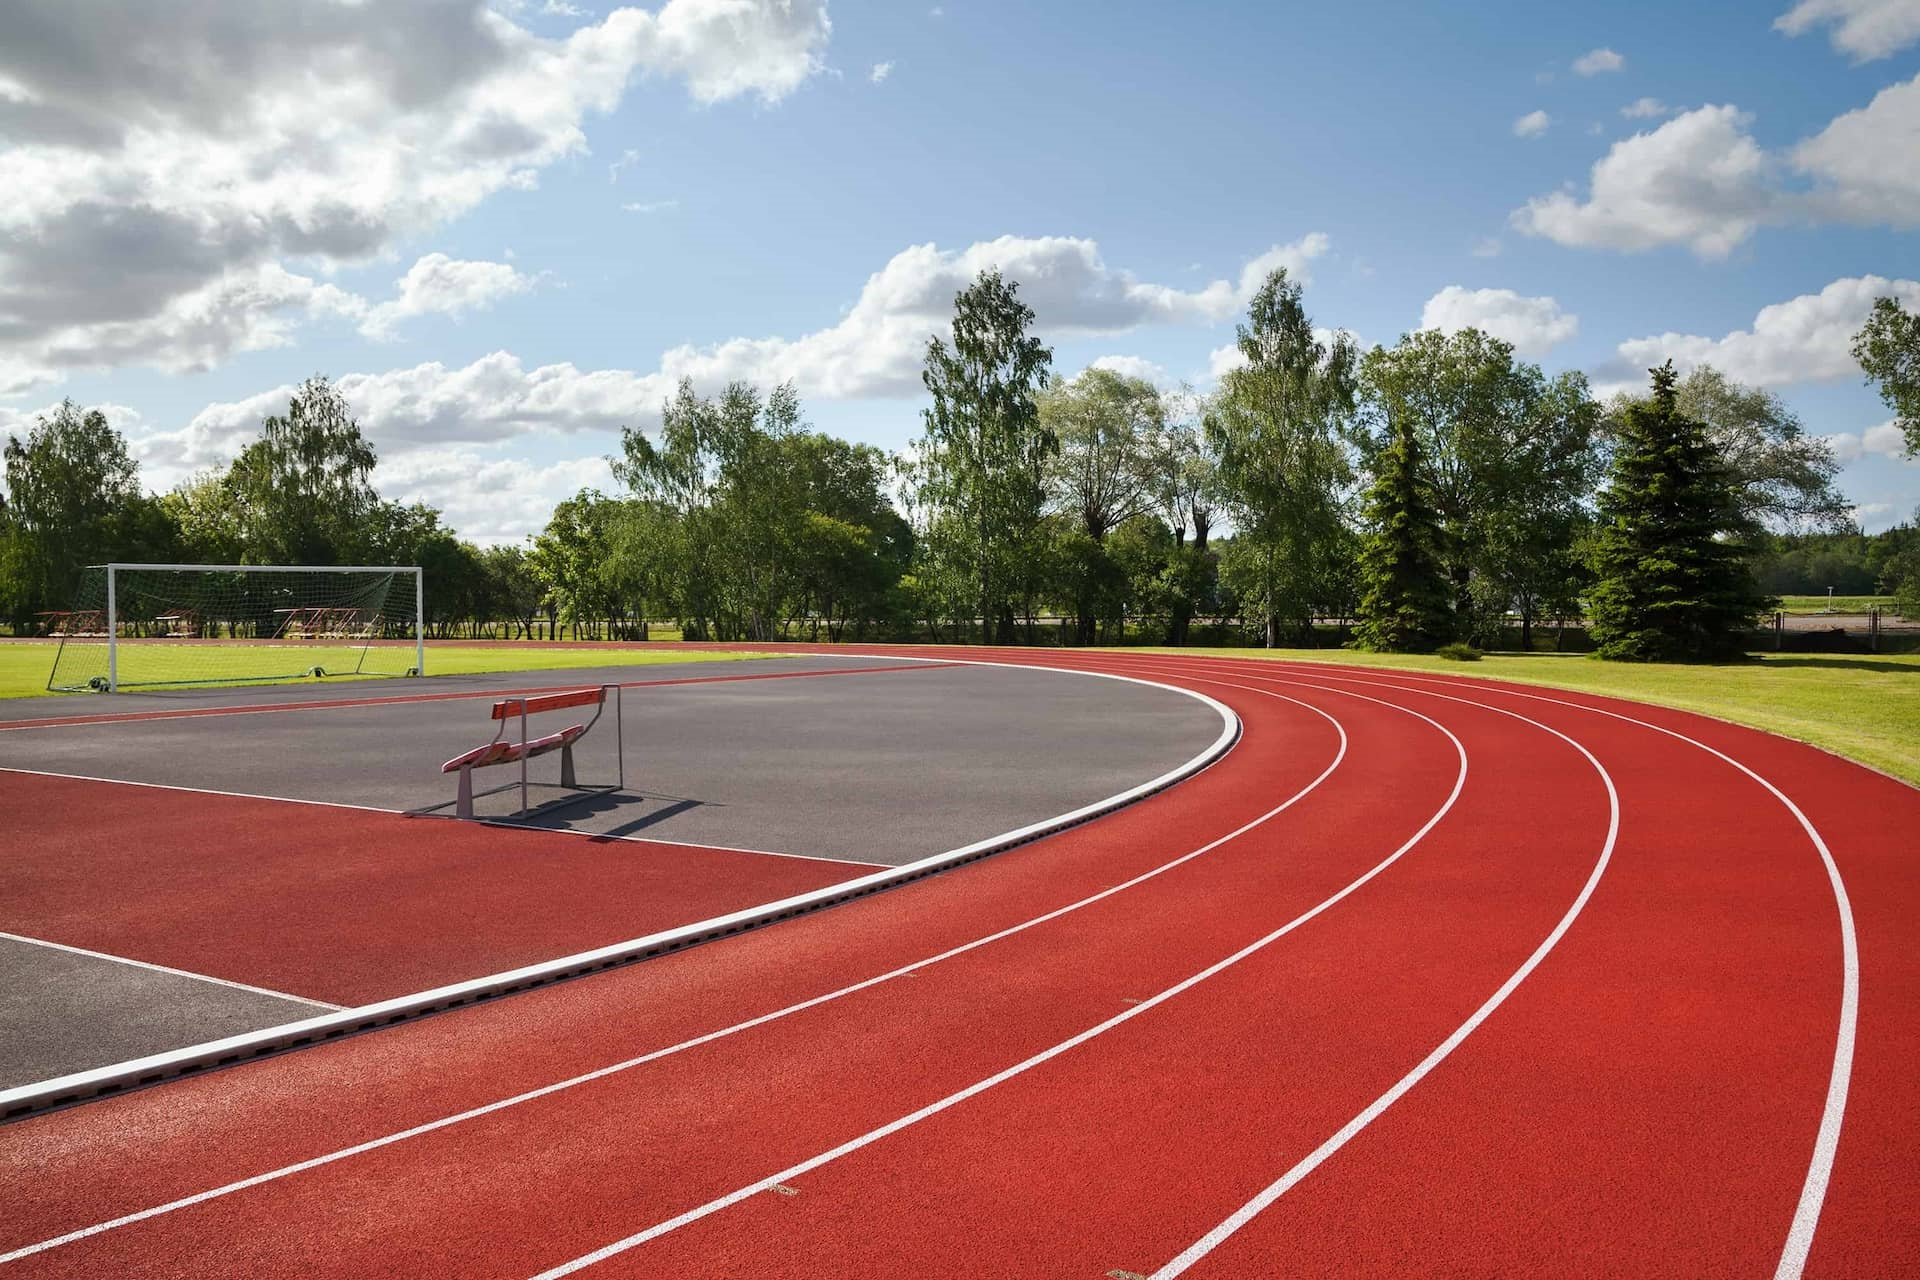
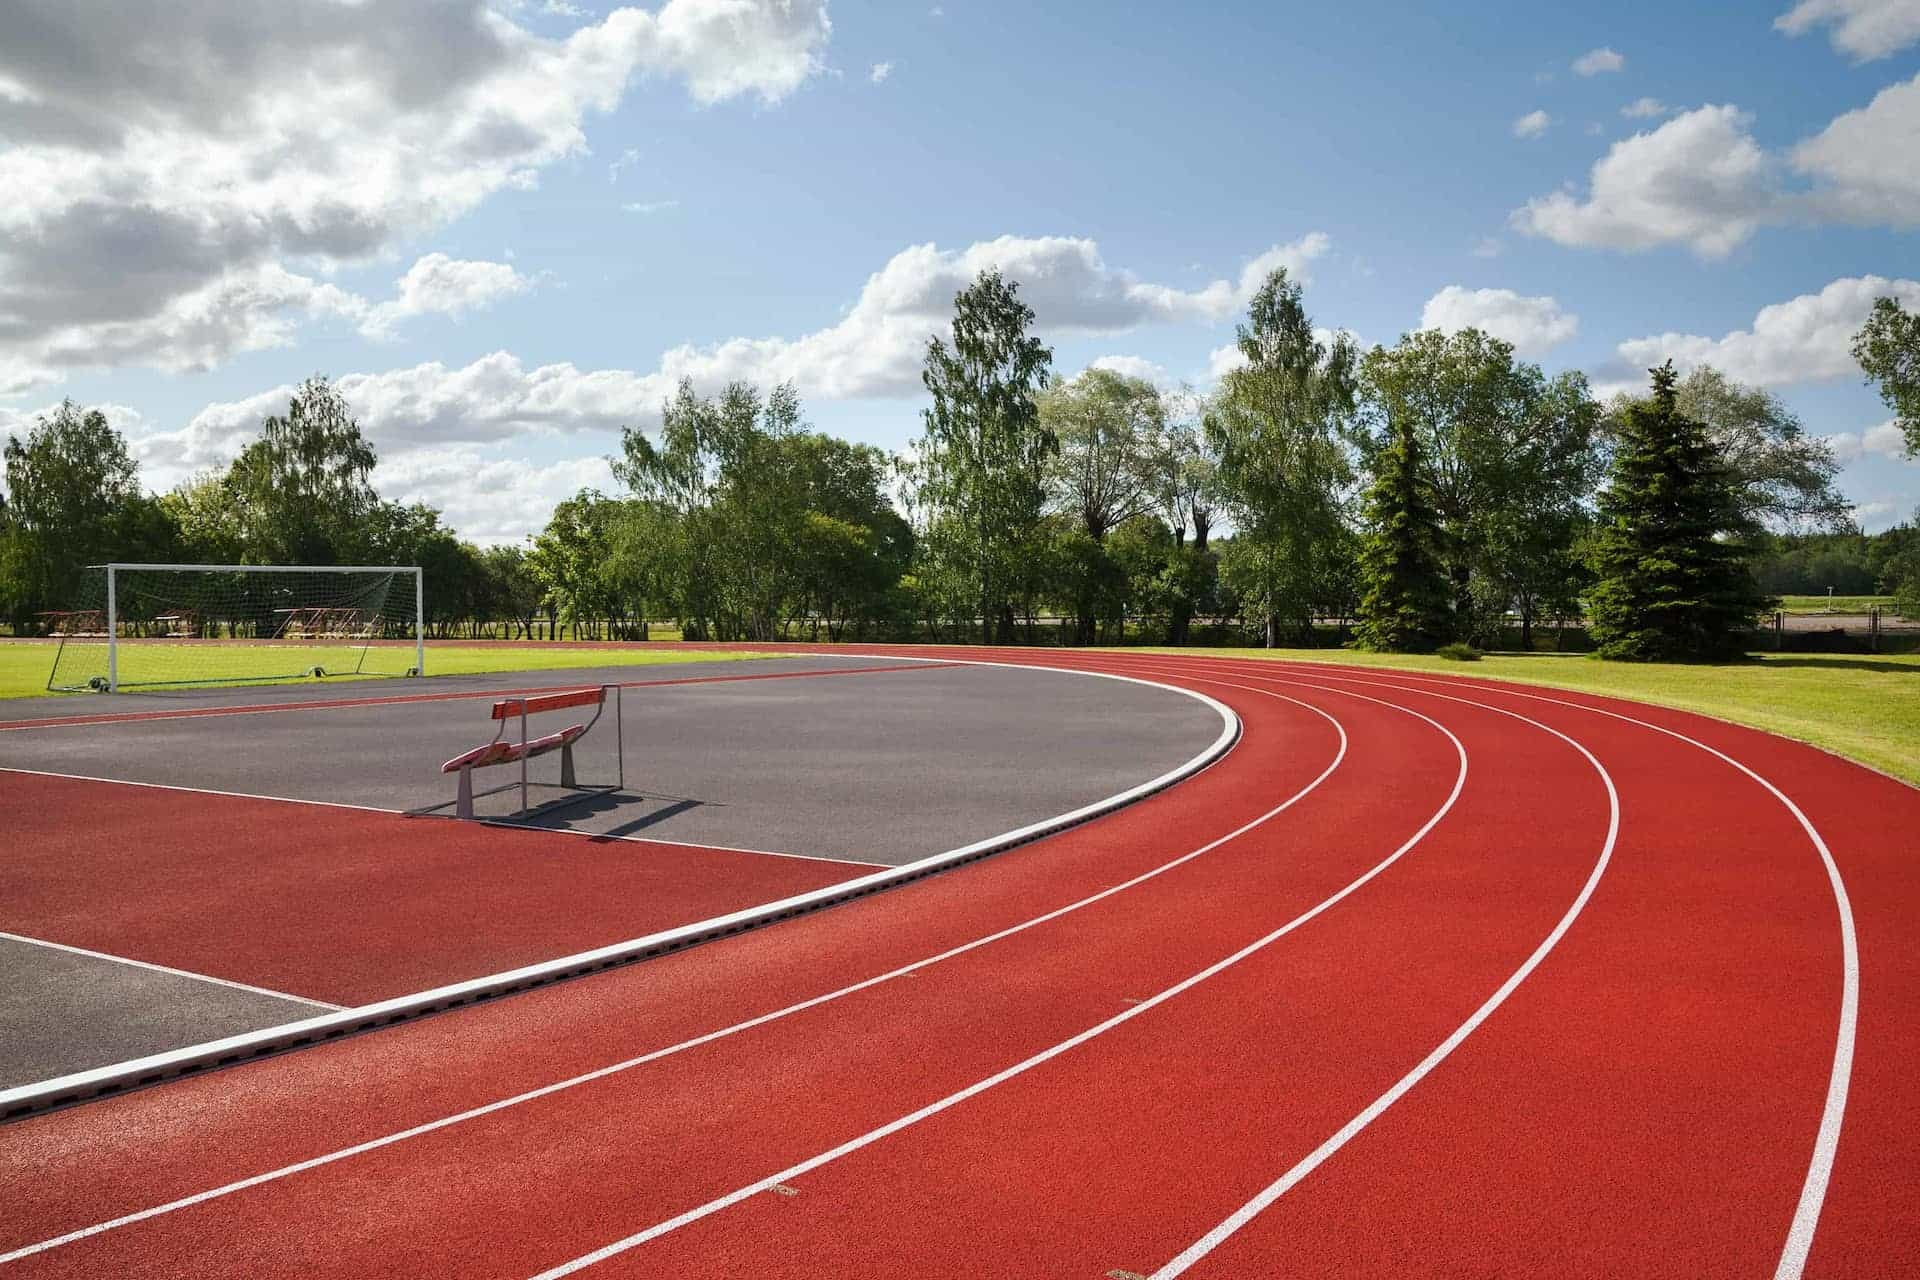
css: svg component, filter for Home background

Changed region(s): [[0.5312, 0.375, 0.5938, 0.4062], [0.7188, 0.3125, 0.75, 0.3438], [0.6875, 0.375, 0.7188, 0.4062]]

diff --git a/src/components/Home/SvgLogo.tsx b/src/components/Home/SvgLogo.tsx
@@ -1,0 +1,74 @@
+import * as React from "react"
+import { SVGProps } from "react"
+
+const SvgComponent = (props: SVGProps<SVGSVGElement>) => (
+    <svg
+        xmlns="http://www.w3.org/2000/svg"
+        viewBox="0 0 675.171 424.765"
+        height={566.354}
+        width={900.228}
+        {...props}
+    >
+        <g
+            style={{
+                fill: "#fff",
+            }}
+        >
+            <path
+                style={{
+                    fill: "#fff",
+                    fillOpacity: 1,
+                    stroke: "none",
+                    strokeWidth: 0.146516,
+                }}
+                d="m356.373 98.8-25.64 18.02-.44 106.517L330 330h105.491V116.821l-25.2-17.582c-13.92-9.67-25.934-17.728-26.813-18.021-.733-.147-13.04 7.765-27.105 17.581zM235.205 155.794l-25.347 16.116V330H313.59l.88-4.542c.439-2.49.879-38.094.879-78.971v-74.43l-25.64-16.263c-14.212-8.938-26.52-16.263-27.545-16.263-1.026.146-13.187 7.472-26.96 16.263zM475.196 214.986c-13.186 8.498-24.907 16.116-26.08 16.996-1.611 1.465-1.904 10.549-1.611 49.522l.44 47.763 52.452.44 52.306.293v-48.057c0-44.1-.147-48.35-2.491-50.401-2.344-1.905-48.057-30.622-50.255-31.5-.44-.147-11.574 6.592-24.76 14.944z"
+                transform="translate(-43.695 -81.216)"
+            />
+        </g>
+        <g
+            style={{
+                fontStyle: "normal",
+                fontVariant: "normal",
+                fontWeight: 700,
+                fontStretch: "normal",
+                fontSize: "210.978px",
+                lineHeight: 1.25,
+                fontFamily: "'Century Gothic'",
+                // @ts-ignore
+                InkscapeFontSpecification: "'Century Gothic, Bold'",
+                fontVariantLigatures: "normal",
+                fontVariantCaps: "normal",
+                fontVariantNumeric: "normal",
+                fontVariantEastAsian: "normal",
+                fill: "#fff",
+                fillOpacity: 1,
+                stroke: "none",
+                strokeWidth: 1.09886,
+            }}
+            aria-label="\u041B\u0438\u0434\u0435\u0440"
+        >
+            <path
+                style={{
+                    fontStyle: "normal",
+                    fontVariant: "normal",
+                    fontWeight: 700,
+                    fontStretch: "normal",
+                    fontSize: "210.978px",
+                    fontFamily: "'Century Gothic'",
+                    // @ts-ignore
+                    InkscapeFontSpecification: "'Century Gothic, Bold'",
+                    fontVariantLigatures: "normal",
+                    fontVariantCaps: "normal",
+                    fontVariantNumeric: "normal",
+                    fontVariantEastAsian: "normal",
+                    fill: "#fff",
+                    fillOpacity: 1,
+                    strokeWidth: 1.09886,
+                }}
+                d="M115.173 383.765 73.245 272.404l-42.65 111.36H0l58.41-151.537h29.257l58.308 151.538zM175.128 383.765h-14.937V271.683h27.402v65.827l57.38-65.827h13.496v112.082h-27.403v-64.489zM301.324 383.765v19.47H276.29v-43.267h16.894l38.631-88.285h18.131l39.147 88.285h17.203v43.267h-26.784v-19.47zm57.895-23.797-18.337-47.182-18.955 47.182zM536.304 335.862H445.96q1.957 11.95 10.405 19.058 8.55 7.005 21.736 7.005 15.762 0 27.093-11.023l23.694 11.126q-8.86 12.568-21.221 18.646-12.362 5.975-29.36 5.975-26.372 0-42.958-16.586-16.586-16.688-16.586-41.721 0-25.651 16.483-42.546 16.586-16.998 41.516-16.998 26.475 0 43.06 16.998 16.586 16.895 16.586 44.71zm-28.226-22.149q-2.782-9.374-11.023-15.246-8.138-5.872-18.955-5.872-11.744 0-20.603 6.593-5.563 4.12-10.302 14.525zM587.092 271.683v12.362q7.623-7.624 16.482-11.435 8.86-3.812 18.955-3.812 21.943 0 37.292 16.586 15.35 16.585 15.35 42.546 0 25.033-15.865 41.927-15.864 16.792-37.6 16.792-9.684 0-18.029-3.4-8.344-3.502-16.585-11.331v52.847h-27.918V271.683Zm29.565 23.075q-13.289 0-22.045 9.066-8.757 9.065-8.757 23.694 0 14.937 8.757 24.208 8.756 9.169 22.045 9.169 12.877 0 21.634-9.375 8.86-9.374 8.86-23.9 0-14.422-8.654-23.59-8.654-9.272-21.84-9.272z"
+            />
+        </g>
+    </svg>
+)
+
+export default SvgComponent

diff --git a/src/components/Home/Home.tsx b/src/components/Home/Home.tsx
@@ -2,8 +2,8 @@ import React, {Suspense} from "react";
 import {Canvas} from "@react-three/fiber";
 import {Sphere, MeshDistortMaterial} from "@react-three/drei";
 import s from "./Home.module.css"
-import logo from "./home-logo.png";
 import {FormCalc} from "../FormCalc/FormCalc";
+import SvgComponent from "./SvgLogo";
 
 export const Home = () => {
 
@@ -14,7 +14,7 @@ export const Home = () => {
             <div className={s.homeContent}>
 
                 <div className={s.homeLeft}>
-                    <img src={logo} className={s.homeLogo} alt=""/>
+                    <SvgComponent className={s.homeLogo}/>
                     <h1>
                         Оборудование для резиновой крошки
                     </h1>

diff --git a/src/components/Home/Home.module.css b/src/components/Home/Home.module.css
@@ -10,6 +10,7 @@
     background-position-x: 50%;
     background-position-y: 20%;
     background-size: cover;
+    filter: brightness(1.05) contrast(105%);
 }
 
 .overlay {
@@ -93,7 +94,13 @@
 @media (max-width: 1200px) {
     .homeContent { flex-wrap: wrap; min-height: 120vh; }
     .homeRight { display: none }
-    .homeLogo { display: block; padding-top: 15px }
+    .homeLogo {
+        display: block;
+        padding-top: 15px;
+        margin-bottom: -5px;
+        width: 150px;
+        height: fit-content;
+    }
     /*.aboutRight { margin-top: 20px; padding-left: 0 }
     .aboutLeft { width: 90% }*/
 }

diff --git a/src/components/Menu/Menu.module.css b/src/components/Menu/Menu.module.css
@@ -117,7 +117,7 @@
 
 @media (max-width: 1200px) {
     .topNavigation, .top { display: none }
-    .scrollNavigation { opacity: 1 }
+    /*.scrollNavigation { opacity: 1 }*/
     /*.aboutRight { margin-top: 20px; padding-left: 0 }
     .aboutLeft { width: 90% }*/
 }
